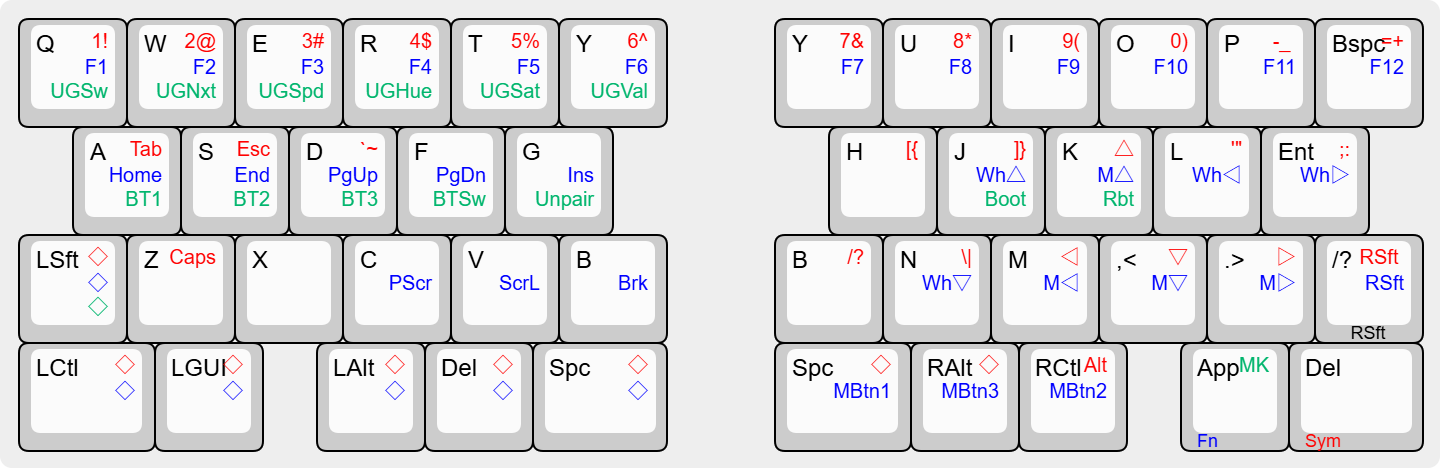
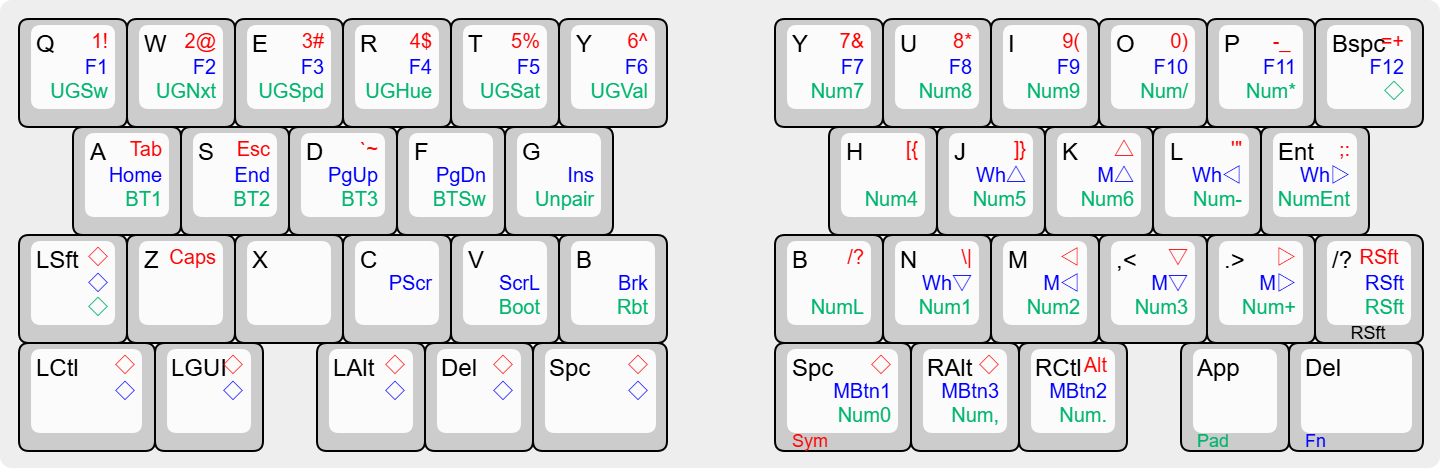
edit keymap with keypads

diff --git a/firmware/nologo rp2040 qmk/pisic/keymaps/tweaked/keymap.c b/firmware/nologo rp2040 qmk/pisic/keymaps/tweaked/keymap.c
@@ -8,22 +8,22 @@ const uint16_t PROGMEM keymaps[][MATRIX_ROWS][MATRIX_COLS] = {
         KC_Q,           KC_W,           KC_E,           KC_R,           KC_T,           KC_Y,           KC_Y,           KC_U,           KC_I,           KC_O,           KC_P,           KC_BSPC, 
                 KC_A,           KC_S,           KC_D,           KC_F,           KC_G,                           KC_H,           KC_J,           KC_K,           KC_L,           KC_ENT,
         KC_LSFT,        KC_Z,           KC_X,           KC_C,           KC_V,           KC_B,           KC_B,           KC_N,           KC_M,           KC_COMM,        KC_DOT,         RSFT_T(KC_SLSH), 
-        KC_LCTL,        KC_LGUI,                        KC_LALT,        KC_TAB,         KC_SPC,         KC_SPC,         KC_RALT,        KC_RCTL,                        LT(2,KC_APP),   LT(1,KC_DEL)),
+        KC_LCTL,        KC_LGUI,                        KC_LALT,        KC_TAB,         KC_SPC,         LT(1,KC_SPC),   KC_RALT,        KC_RCTL,                        LT(3,KC_APP),   LT(2,KC_DEL)),
     [1] = LAYOUT_split_656_5(
         KC_1,           KC_2,           KC_3,           KC_4,           KC_5,           KC_6,           KC_7,           KC_8,           KC_9,           KC_0,           KC_MINS,        KC_EQL,
                 KC_TAB,         KC_ESC,         KC_GRV,         KC_NO,          KC_NO,                          KC_RBRC,        KC_LBRC,        KC_UP,          KC_QUOT,        KC_SCLN, 
         KC_TRNS,        KC_CAPS,        KC_NO,          KC_NO,          KC_NO,          KC_NO,          KC_NO,          KC_BSLS,        KC_LEFT,        KC_DOWN,        KC_RGHT,        KC_RSFT, 
-        KC_TRNS,        KC_TRNS,                        KC_TRNS,        KC_TRNS,        KC_TRNS,        KC_TRNS,        KC_TRNS,        KC_RALT,                        MO(3),          KC_TRNS),
+        KC_TRNS,        KC_TRNS,                        KC_TRNS,        KC_TRNS,        KC_TRNS,        KC_TRNS,        KC_TRNS,        KC_RALT,                        KC_BSPC,        KC_DEL),
     [2] = LAYOUT_split_656_5(
         KC_F1,          KC_F2,          KC_F3,          KC_F4,          KC_F5,          KC_F6,          KC_F7,          KC_F8,          KC_F9,          KC_F10,         KC_F11,         KC_F12,  
                 KC_HOME,        KC_END,         KC_PGUP,        KC_PGDN,        KC_INS,                         KC_NO,          MS_WHLU,        MS_UP,          MS_WHLL,        MS_WHLR,
         KC_TRNS,        KC_NO,          KC_NO,          KC_PSCR,        KC_SCRL,        KC_BRK,         KC_NO,          MS_WHLD,        MS_LEFT,        MS_DOWN,        MS_RGHT,        KC_RSFT, 
         KC_TRNS,        KC_TRNS,                        KC_TRNS,        KC_TRNS,        KC_TRNS,        MS_BTN1,        MS_BTN3,        MS_BTN2,                        KC_TRNS,        KC_NO),
     [3] = LAYOUT_split_656_5(
-        UG_TOGG,        UG_NEXT,        UG_SPDU,        UG_HUEU,        UG_SATU,        UG_VALU,        KC_NO,          KC_NO,          KC_NO,          KC_NO,          KC_NO,          KC_NO,
-                BT_PRF1,        BT_PRF2,        BT_PRF3,        OU_AUTO,        BT_UNPR,                        KC_NO,          QK_BOOT,        QK_RBT,         KC_NO,          KC_NO,
-        KC_TRNS,        KC_NO,          KC_NO,          KC_NO,          KC_NO,          KC_NO,          KC_NO,          KC_NO,          KC_NO,          KC_NO,          KC_NO,          KC_NO,
-        KC_NO,          KC_NO,                          KC_NO,          KC_NO,          KC_NO,          KC_NO,          KC_NO,          KC_NO,                          KC_TRNS,        KC_NO)
+        UG_TOGG,        UG_NEXT,        UG_SPDU,        UG_HUEU,        UG_SATU,        UG_VALU,        KC_P7,          KC_P8,          KC_P9,          KC_PSLS,        KC_PAST,        KC_BSPC,
+                BT_PRF1,        BT_PRF2,        BT_PRF3,        OU_AUTO,        BT_UNPR,                        KC_P4,          KC_P5,          KC_P6,          KC_PMNS,        KC_PENT,
+        KC_TRNS,        KC_NO,          KC_NO,          KC_NO,          QK_BOOT,        QK_RBT,         KC_NO,          KC_P1,          KC_P2,          KC_P3,          KC_PPLS,        KC_RSFT,
+        KC_NO,          KC_NO,                          KC_NO,          KC_NO,          KC_NO,          KC_P0,          KC_PCMM,        KC_PDOT,                        KC_TRNS,        KC_NO)
 };
 
 bool get_hold_on_other_key_press(uint16_t keycode, keyrecord_t *record) {

diff --git a/firmware/nologo rp2040 qmk/pisic/keymaps/default/keymap.c b/firmware/nologo rp2040 qmk/pisic/keymaps/default/keymap.c
@@ -8,20 +8,20 @@ const uint16_t PROGMEM keymaps[][MATRIX_ROWS][MATRIX_COLS] = {
         KC_Q,           KC_W,           KC_E,           KC_R,           KC_T,           KC_Y,           KC_Y,           KC_U,           KC_I,           KC_O,           KC_P,           KC_BSPC, 
                 KC_A,           KC_S,           KC_D,           KC_F,           KC_G,                           KC_H,           KC_J,           KC_K,           KC_L,           KC_ENT,
         KC_LSFT,        KC_Z,           KC_X,           KC_C,           KC_V,           KC_B,           KC_B,           KC_N,           KC_M,           KC_COMM,        KC_DOT,         RSFT_T(KC_SLSH), 
-        KC_LCTL,        KC_LGUI,                        KC_LALT,        KC_TAB,         KC_SPC,         KC_SPC,         KC_RALT,        KC_RCTL,                        LT(2,KC_APP),   LT(1,KC_DEL)),
+        KC_LCTL,        KC_LGUI,                        KC_LALT,        KC_TAB,         KC_SPC,         LT(1,KC_SPC),   KC_RALT,        KC_RCTL,                        LT(3,KC_APP),   LT(2,KC_DEL)),
     [1] = LAYOUT_split_656_5(
         KC_1,           KC_2,           KC_3,           KC_4,           KC_5,           KC_6,           KC_7,           KC_8,           KC_9,           KC_0,           KC_MINS,        KC_EQL,
                 KC_TAB,         KC_ESC,         KC_GRV,         KC_NO,          KC_NO,                          KC_RBRC,        KC_LBRC,        KC_UP,          KC_QUOT,        KC_SCLN, 
         KC_TRNS,        KC_CAPS,        KC_NO,          KC_NO,          KC_NO,          KC_NO,          KC_NO,          KC_BSLS,        KC_LEFT,        KC_DOWN,        KC_RGHT,        KC_RSFT, 
-        KC_TRNS,        KC_TRNS,                        KC_TRNS,        KC_TRNS,        KC_TRNS,        KC_TRNS,        KC_TRNS,        KC_RALT,                        MO(3),          KC_TRNS),
+        KC_TRNS,        KC_TRNS,                        KC_TRNS,        KC_TRNS,        KC_TRNS,        KC_TRNS,        KC_TRNS,        KC_RALT,                        KC_BSPC,        KC_DEL),
     [2] = LAYOUT_split_656_5(
         KC_F1,          KC_F2,          KC_F3,          KC_F4,          KC_F5,          KC_F6,          KC_F7,          KC_F8,          KC_F9,          KC_F10,         KC_F11,         KC_F12,  
                 KC_HOME,        KC_END,         KC_PGUP,        KC_PGDN,        KC_INS,                         KC_NO,          MS_WHLU,        MS_UP,          MS_WHLL,        MS_WHLR,
         KC_TRNS,        KC_NO,          KC_NO,          KC_PSCR,        KC_SCRL,        KC_BRK,         KC_NO,          MS_WHLD,        MS_LEFT,        MS_DOWN,        MS_RGHT,        KC_RSFT, 
         KC_TRNS,        KC_TRNS,                        KC_TRNS,        KC_TRNS,        KC_TRNS,        MS_BTN1,        MS_BTN3,        MS_BTN2,                        KC_TRNS,        KC_NO),
     [3] = LAYOUT_split_656_5(
-        UG_TOGG,        UG_NEXT,        UG_SPDU,        UG_HUEU,        UG_SATU,        UG_VALU,        KC_NO,          KC_NO,          KC_NO,          KC_NO,          KC_NO,          KC_NO,
-                BT_PRF1,        BT_PRF2,        BT_PRF3,        OU_AUTO,        BT_UNPR,                        KC_NO,          QK_BOOT,        QK_RBT,         KC_NO,          KC_NO,
-        KC_TRNS,        KC_NO,          KC_NO,          KC_NO,          KC_NO,          KC_NO,          KC_NO,          KC_NO,          KC_NO,          KC_NO,          KC_NO,          KC_NO,
-        KC_NO,          KC_NO,                          KC_NO,          KC_NO,          KC_NO,          KC_NO,          KC_NO,          KC_NO,                          KC_TRNS,        KC_NO)
+        UG_TOGG,        UG_NEXT,        UG_SPDU,        UG_HUEU,        UG_SATU,        UG_VALU,        KC_P7,          KC_P8,          KC_P9,          KC_PSLS,        KC_PAST,        KC_BSPC,
+                BT_PRF1,        BT_PRF2,        BT_PRF3,        OU_AUTO,        BT_UNPR,                        KC_P4,          KC_P5,          KC_P6,          KC_PMNS,        KC_PENT,
+        KC_TRNS,        KC_NO,          KC_NO,          KC_NO,          QK_BOOT,        QK_RBT,         KC_NO,          KC_P1,          KC_P2,          KC_P3,          KC_PPLS,        KC_RSFT,
+        KC_NO,          KC_NO,                          KC_NO,          KC_NO,          KC_NO,          KC_P0,          KC_PCMM,        KC_PDOT,                        KC_TRNS,        KC_NO)
 };

diff --git a/firmware/nologo rp2040 qmk/pisic/keymaps/vial/keymap.c b/firmware/nologo rp2040 qmk/pisic/keymaps/vial/keymap.c
@@ -8,20 +8,20 @@ const uint16_t PROGMEM keymaps[][MATRIX_ROWS][MATRIX_COLS] = {
         KC_Q,           KC_W,           KC_E,           KC_R,           KC_T,           KC_Y,           KC_Y,           KC_U,           KC_I,           KC_O,           KC_P,           KC_BSPC, 
                 KC_A,           KC_S,           KC_D,           KC_F,           KC_G,                           KC_H,           KC_J,           KC_K,           KC_L,           KC_ENT,
         KC_LSFT,        KC_Z,           KC_X,           KC_C,           KC_V,           KC_B,           KC_B,           KC_N,           KC_M,           KC_COMM,        KC_DOT,         RSFT_T(KC_SLSH), 
-        KC_LCTL,        KC_LGUI,                        KC_LALT,        KC_TAB,         KC_SPC,         KC_SPC,         KC_RALT,        KC_RCTL,                        LT(2,KC_APP),   LT(1,KC_DEL)),
+        KC_LCTL,        KC_LGUI,                        KC_LALT,        KC_TAB,         KC_SPC,         LT(1,KC_SPC),   KC_RALT,        KC_RCTL,                        LT(3,KC_APP),   LT(2,KC_DEL)),
     [1] = LAYOUT_split_656_5(
         KC_1,           KC_2,           KC_3,           KC_4,           KC_5,           KC_6,           KC_7,           KC_8,           KC_9,           KC_0,           KC_MINS,        KC_EQL,
                 KC_TAB,         KC_ESC,         KC_GRV,         KC_NO,          KC_NO,                          KC_RBRC,        KC_LBRC,        KC_UP,          KC_QUOT,        KC_SCLN, 
         KC_TRNS,        KC_CAPS,        KC_NO,          KC_NO,          KC_NO,          KC_NO,          KC_NO,          KC_BSLS,        KC_LEFT,        KC_DOWN,        KC_RGHT,        KC_RSFT, 
-        KC_TRNS,        KC_TRNS,                        KC_TRNS,        KC_TRNS,        KC_TRNS,        KC_TRNS,        KC_TRNS,        KC_RALT,                        MO(3),          KC_TRNS),
+        KC_TRNS,        KC_TRNS,                        KC_TRNS,        KC_TRNS,        KC_TRNS,        KC_TRNS,        KC_TRNS,        KC_RALT,                        KC_BSPC,        KC_DEL),
     [2] = LAYOUT_split_656_5(
         KC_F1,          KC_F2,          KC_F3,          KC_F4,          KC_F5,          KC_F6,          KC_F7,          KC_F8,          KC_F9,          KC_F10,         KC_F11,         KC_F12,  
                 KC_HOME,        KC_END,         KC_PGUP,        KC_PGDN,        KC_INS,                         KC_NO,          MS_WHLU,        MS_UP,          MS_WHLL,        MS_WHLR,
         KC_TRNS,        KC_NO,          KC_NO,          KC_PSCR,        KC_SCRL,        KC_BRK,         KC_NO,          MS_WHLD,        MS_LEFT,        MS_DOWN,        MS_RGHT,        KC_RSFT, 
         KC_TRNS,        KC_TRNS,                        KC_TRNS,        KC_TRNS,        KC_TRNS,        MS_BTN1,        MS_BTN3,        MS_BTN2,                        KC_TRNS,        KC_NO),
     [3] = LAYOUT_split_656_5(
-        UG_TOGG,        UG_NEXT,        UG_SPDU,        UG_HUEU,        UG_SATU,        UG_VALU,        KC_NO,          KC_NO,          KC_NO,          KC_NO,          KC_NO,          KC_NO,
-                BT_PRF1,        BT_PRF2,        BT_PRF3,        OU_AUTO,        BT_UNPR,                        KC_NO,          QK_BOOT,        QK_RBT,         KC_NO,          KC_NO,
-        KC_TRNS,        KC_NO,          KC_NO,          KC_NO,          KC_NO,          KC_NO,          KC_NO,          KC_NO,          KC_NO,          KC_NO,          KC_NO,          KC_NO,
-        KC_NO,          KC_NO,                          KC_NO,          KC_NO,          KC_NO,          KC_NO,          KC_NO,          KC_NO,                          KC_TRNS,        KC_NO)
+        UG_TOGG,        UG_NEXT,        UG_SPDU,        UG_HUEU,        UG_SATU,        UG_VALU,        KC_P7,          KC_P8,          KC_P9,          KC_PSLS,        KC_PAST,        KC_BSPC,
+                BT_PRF1,        BT_PRF2,        BT_PRF3,        OU_AUTO,        BT_UNPR,                        KC_P4,          KC_P5,          KC_P6,          KC_PMNS,        KC_PENT,
+        KC_TRNS,        KC_NO,          KC_NO,          KC_NO,          QK_BOOT,        QK_RBT,         KC_NO,          KC_P1,          KC_P2,          KC_P3,          KC_PPLS,        KC_RSFT,
+        KC_NO,          KC_NO,                          KC_NO,          KC_NO,          KC_NO,          KC_P0,          KC_PCMM,        KC_PDOT,                        KC_TRNS,        KC_NO)
 };
